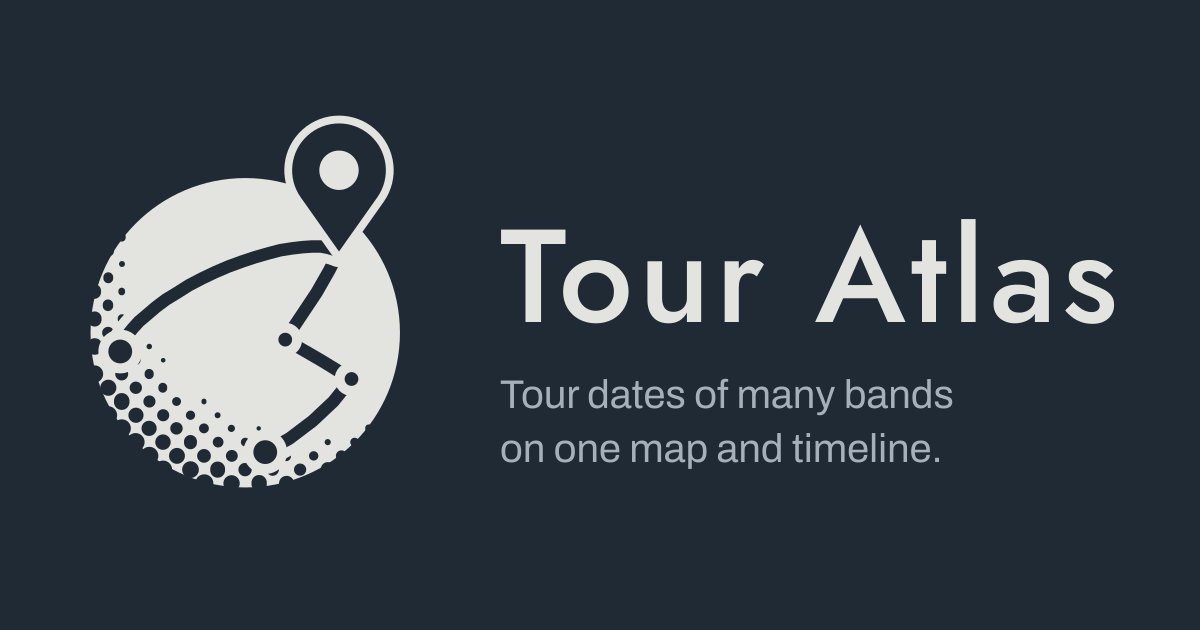
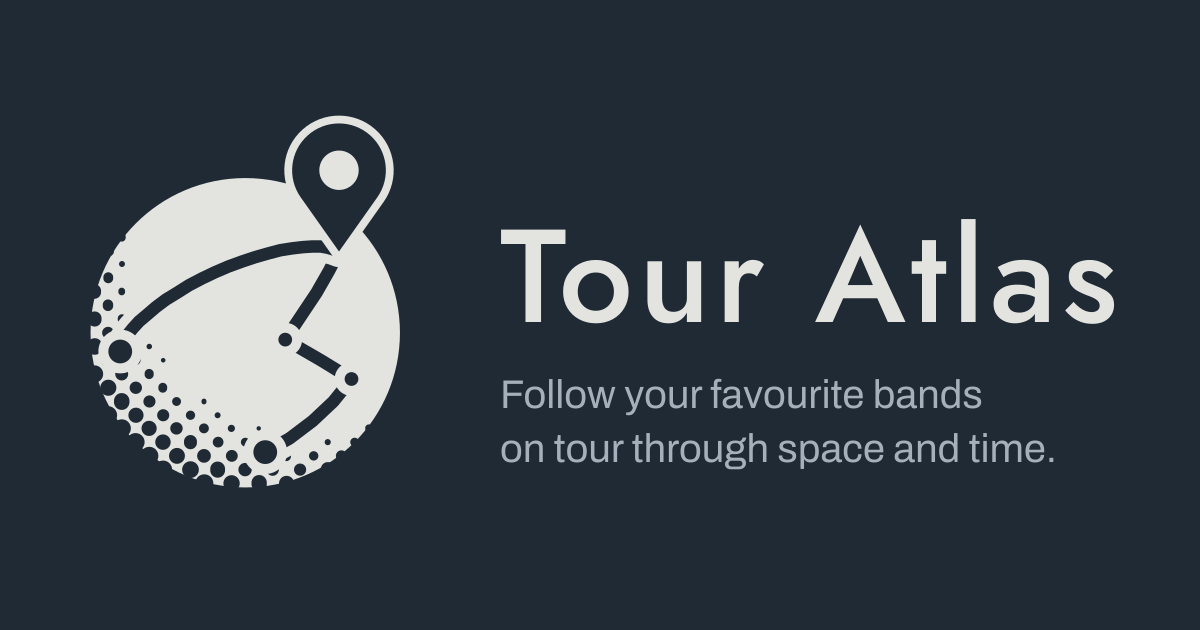
Rewrite the README around what the app does, with a new tagline
"Follow your favourite bands on tour through space and time" replaces the
old line in the README, the page description, the social card text and
the card image. The README now lists features, privacy and the static
nature of the site in short points; build, configuration, deployment,
the technical privacy details and the code layout move to
docs/DEVELOPMENT.md.

Changed region(s): [[0.4008, 0.6032, 0.8325, 0.6635], [0.4625, 0.6937, 0.8942, 0.754]]

diff --git a/index.html b/index.html
@@ -5,12 +5,12 @@
     <meta name="viewport" content="width=device-width, initial-scale=1" />
     <meta name="referrer" content="no-referrer" />
     <meta name="color-scheme" content="light dark" />
-    <meta name="description" content="Tour dates of many bands on one map and timeline." />
+    <meta name="description" content="Follow your favourite bands on tour through space and time: tour dates on one world map and timeline." />
     <title>Tour Atlas</title>
     <!-- social-card
       og:site_name = Tour Atlas
       og:title = Tour Atlas
-      og:description = Tour dates of {bands} bands, {shows} shows in all, on one world map with a zoomable timeline.
+      og:description = Follow your favourite bands on tour through space and time: {bands} bands, {shows} shows on one world map and timeline.
       og:image:alt = The Tour Atlas globe with a tour route and a map pin, next to the words Tour Atlas.
     -->
   </head>

diff --git a/tools/og-card.ts b/tools/og-card.ts
@@ -19,7 +19,7 @@ const PNG_PATH = 'src/brand/og-card.png';
 /** Stage lights, the default style: slate ink as the card, the mark's paper for the globe and the name. */
 const COLOURS = { card: '#1f2a35', paper: '#e3e4df', tagline: '#a6b0ba' } as const;
 const WORDMARK = { text: 'Tour Atlas', font: '@fontsource/jost/files/jost-latin-500-normal.woff', size: 132, letterSpacingEm: 0.04 } as const;
-const TAGLINE = { lines: ['Tour dates of many bands', 'on one map and timeline.'], font: '@fontsource/archivo/files/archivo-latin-400-normal.woff', size: 40, lineHeight: 54 } as const;
+const TAGLINE = { lines: ['Follow your favourite bands', 'on tour through space and time.'], font: '@fontsource/archivo/files/archivo-latin-400-normal.woff', size: 40, lineHeight: 54 } as const;
 const MARK_BOX = { x: 64, y: 114, size: 400 } as const;
 const TEXT_X = 500;
 const WORDMARK_BASELINE = 322;

diff --git a/tests/tools/build.test.ts b/tests/tools/build.test.ts
@@ -130,7 +130,7 @@ describe('injectSocialCard', () => {
   it('works with the real index.html, and check-dist accepts the result with the real card image', () => {
     const indexHtml = readFileSync('index.html', 'utf8');
     const html = injectSocialCard(indexHtml, siteUrl, counts);
-    expect(html).toMatch(/<meta property="og:description" content="Tour dates of 12 bands, 3,456 shows[^"]*" \/>/);
+    expect(html).toMatch(/<meta property="og:description" content="Follow your favourite bands[^"]*: 12 bands, 3,456 shows[^"]*" \/>/);
     const card = readFileSync('src/brand/og-card.png');
     expect(pngDimensions(card)).toEqual({ width: 1200, height: 630 });
     expect(socialCardProblems(html, card, true)).toEqual([]);

diff --git a/README.md b/README.md
@@ -1,132 +1,40 @@
 # Tour Atlas
 
-Concert tour dates of many bands on one world map, with a zoomable timeline aligned underneath.
-A static site: one `index.html` with every script, style, coastline and tour date inlined, plus three
-self-hosted font files next to it. No backend, no network requests to third parties, no cookies.
+Follow your favourite bands on tour through space and time.
 
-- Equal Earth map with automatic fitting (antimeridian-aware), zoom and pan, great-circle routes, merged and
-  clustered pins, greyed past shows, hollow cancelled shows; canvas rendering above 2,000 shows
-- Timeline with one lane per band, x-axis zoom, adaptive ticks, a today marker and virtualised lanes
-- Hover links map and timeline; clicking a band, place, pin or date lists its shows in the sidebar; the map can follow the timeline window
-- Search across bands, cities, venues, tours and festivals; band list with filter, sort, solo, show/hide all
-- Checking band files: pick or drop band files to validate them, see the diff against the published data and
-  download the normalized file, or download all bands as one file. Nothing leaves the browser.
-- Four styles (Stage lights, Bold contrast, Soft print, Road atlas), each light and dark following the system,
-  switchable in the settings; keyboard navigation with visible focus
-- A band's view draws its tour route on a calendar clock, or at an even pace per leg (switch in the map and timeline options),
-  with a playhead on the timeline (skipped when the system asks for reduced motion)
-- English, German, French, Spanish, Swedish, Finnish, Latin and Esperanto, picked from the browser or in the settings, with local date formats, a 12/24-hour choice and distances in kilometres, miles or Swedish mil
-- The logo returns to the default view; browser Back restores the view before it
-- Sharing: the share button in the masthead gives a link to the current view (bands, genres, dates, selection,
-  map region, globe and style) to copy or hand to the system share sheet; the link leaves out language,
-  time format and distances, so whoever opens it sees their own
-- Hover tooltips, time presets (upcoming, next 3 months, past, all), collapsed empty lanes, band-colour rings on
-  shared pins, and genre filters from the fixed tag list in `data/tags.json`
-- Band logos as one-colour silhouettes in the band list, tooltips and show lists, stored in `data/logos/`
+Every show of the bands you follow on one world map, with a timeline right underneath: see where they play,
+when, and what's coming up near you.
 
-Tour data lives in [`data/bands/`](data/bands/), one JSON file per band, and is changed through pull requests.
+## Features
+
+- **Map and timeline:** every show as a pin on a flat map or a globe, one timeline lane per band; hovering one highlights the other
+- **Filters that combine:** bands, genres, a time range and an area work together, in whatever order you pick them
+- **Around a place:** shows near you, around any point on the map (menu, right-click or long press) or around a city or venue
+- **Follow a tour:** a band's route animates leg by leg, with a playhead on the timeline
+- **Search:** bands, cities, venues, tours and festivals
+- **Share:** a link to exactly what you see; social media shows a preview card
+- **Mobile:** a phone layout with a collapsible sidebar; pinch to zoom, long press to pick a point
+- **Keyboard and screen readers:** skip link, keyboard cursors on the map and timeline that announce each show, live announcements for results and counts, visible focus
+- **Your way:** four styles in light and dark (all meet WCAG AA contrast), eight languages, local date formats, km or miles, less animation on request
+
+## Privacy in mind
+
+- No account, no cookies, no tracking, no analytics, nothing stored in your browser.
+- "Near me" uses your location only in the open tab; it never leaves your device and never goes into a link.
+- Shared links carry the view, not you: your language and format settings stay out of them.
+- Band files you check are read in your browser and never uploaded.
+
+## Static by design
+
+Tour Atlas is a snapshot, not a live feed. The tour dates come from each band's own pages, are reviewed, and
+reach the site when it is rebuilt; nothing updates on its own while you look at it. Every show links to its
+source, and to tickets where the band lists them.
+
+## Add or update a band
+
+Tour data lives in [`data/bands/`](data/bands/), one file per band, and changes through pull requests.
 See [CONTRIBUTING.md](CONTRIBUTING.md) and [docs/DATA_FORMAT.md](docs/DATA_FORMAT.md).
-
-## Develop
-
-Requires Node 22.18 or newer; `.nvmrc` pins the major version CI uses (`nvm use`). The CLI tools are TypeScript
-run directly by Node.
-
-```sh
-npm ci
-npm run dev          # http://localhost:5173
-npm test
-npm run check        # everything CI runs
-```
-
-## Environment variables
-
-Nothing is needed to develop, test or build. The variables below are optional, except `NOMINATIM_CONTACT`
-for geocoding.
-
-| Variable | Used by | Purpose |
-| --- | --- | --- |
-| `NOMINATIM_CONTACT` | `npm run geocode` | **Required for geocoding.** Email address or project URL sent in the User-Agent, as the Nominatim usage policy demands. |
-| `TOUR_ATLAS_BANDS_DIR` | `vite build` | Build from another directory of band files (the size-budget build uses this). Default `data/bands`. |
-| `TOUR_ATLAS_OUT_DIR` | `vite build` | Write the build somewhere else. Default `dist`. |
-| `TOUR_ATLAS_SITE_URL` | `vite build` | The published address, absolute `https:` and ending in `/` (for example `https://example.org/tour-atlas/`). When set, the build adds the OpenGraph/Twitter card tags and puts `og-card.png` next to `index.html`; anything else set fails the build. Unset (local builds, CI, the budget build) means no card. The deploy workflow sets it from GitHub Pages. |
-| `GITHUB_STEP_SUMMARY` | `validate`, `review` with `--format github` | Set by GitHub Actions; the tools append their Markdown summary to it. |
-
-For local runs, keep them in `.env.local`, which is git-ignored; `npm run geocode` loads it:
-
-```sh
-cp .env.example .env.local   # then put your contact address in it
-npm run geocode
-```
-
-Where to set `NOMINATIM_CONTACT` in GitHub Actions or on a future upload backend is described in
-[CONTRIBUTING.md](CONTRIBUTING.md#geocoding-contact).
-
-## Build
-
-```sh
-npm run build
-```
-
-Writes `dist/index.html` and the `.woff2` fonts next to it, then checks the output: everything else inlined,
-a Content-Security-Policy that blocks all network requests except the page's own fonts, no storage APIs,
-and the size budget. The fonts are separate so browsers cache them across data updates.
-
-With `TOUR_ATLAS_SITE_URL` set, the build also writes one social card for the whole site: OpenGraph and
-Twitter tags (texts in the `<!-- social-card -->` block in `index.html`, band and show counts filled in at
-build time) and `og-card.png`. Link previews never see the hash, so every shared link shows the same card.
-The image is `src/brand/og-card.png`, rendered with `src/brand/og-card.svg` by `npm run og-card` (sharp, run
-by hand after changing the mark or the card's text; commit both files). Browsers never request it, so it is
-outside the size budget.
-
-To look at the build, serve it locally: `npm run preview` (http://localhost:4173). Opening
-`dist/index.html` from disk (`file://`) also works as long as the font files stay next to it; a browser
-that blocks local fonts falls back to system fonts and nothing else changes.
-
-`npm run build:budget` builds the same app with a synthetic 50 bands / 5,000 shows dataset and fails above
-800 kB transferred (gzipped HTML plus every font file of the heaviest style; browsers download only the
-active style's fonts, and the extended Latin files only for letters like ĉ or Č). It is currently about 774 kB.
-
-## Deploy
-
-`.github/workflows/deploy.yml` validates, builds and publishes `dist/` to GitHub Pages on every push to `main`.
-It reads the site address from `actions/configure-pages`, builds with it as `TOUR_ATLAS_SITE_URL` and checks
-that the social card is there (`check-dist --require-social-card`).
-After the repository is on GitHub, enable it once: **Settings → Pages → Build and deployment → Source:
-GitHub Actions**.
-
-`.github/workflows/ci.yml` runs on every push and pull request: data validation with inline annotations,
-`normalize --check`, a data review summary for pull requests, typecheck, tests, build, a build with a test
-`TOUR_ATLAS_SITE_URL` that checks the social card, and the size budget.
-Dependabot keeps npm packages and the SHA-pinned GitHub Actions up to date.
-
-## Privacy
-
-- No cookies, no localStorage, sessionStorage or IndexedDB, no analytics, no third-party fonts or scripts;
-  the fonts and band logos are served from the same place as the page. Logos are downloaded once by
-  `npm run logos`; the page never contacts the original image hosts.
-- View state (hidden bands, time window, selection) lives in the URL hash only, so a view can be shared
-  as a link. The hash is never sent to a server. Shared links leave out the language, time format and
-  distance settings; the "Near me" position is never put in the URL at all.
-- Previewed files are read in the browser and kept in memory until the tab closes.
-- The Content-Security-Policy sets `connect-src 'none'`, so the page cannot make requests even by mistake.
-  Ticket and source links open in a new tab without a referrer.
-- GitHub Pages, as the host, logs visitor IP addresses; that is outside this app. Because the app is a
-  single file, it can be hosted anywhere else, or opened from disk.
-
-## Layout
-
-| Path | What |
-| --- | --- |
-| `data/bands/` | published band files |
-| `schema/tour.schema.json` | JSON Schema, also usable as an LLM structured-output schema |
-| `src/data/` | validator, ids, normalize, diff, lint, palette: shared by app, tools and build |
-| `src/store/` | `DataStore` interface and `StaticStore` for the bundled data |
-| `src/view/` | map, timeline, band list, detail, preview panel, search |
-| `tools/` | `validate`, `normalize`, `geocode`, `review`, build checks and Vite plugins |
-| `data/tags.json` | the fixed tag list (genre, label, other) |
-| `samples/` | fictional sample bands used by the tests, one file with invalid rows, one LLM-style draft |
-| `.claude/skills/` | Claude Code skills for the tasks that need judgement |
+Building, configuring and deploying the app: [docs/DEVELOPMENT.md](docs/DEVELOPMENT.md).
 
 ## Credits
 

diff --git a/docs/DEVELOPMENT.md b/docs/DEVELOPMENT.md
@@ -1,0 +1,109 @@
+# Development
+
+How Tour Atlas is built, configured and deployed. For adding or changing band data, see
+[CONTRIBUTING.md](../CONTRIBUTING.md) and [DATA_FORMAT.md](DATA_FORMAT.md).
+
+The app is a static site: one `index.html` with every script, style, coastline and tour date inlined, plus
+self-hosted `.woff2` fonts and the band logo `.webp` files next to it. No backend, and no network requests at
+runtime.
+
+## Getting started
+
+Requires Node 22.18 or newer; `.nvmrc` pins the major version CI uses (`nvm use`). The CLI tools are TypeScript
+run directly by Node.
+
+```sh
+npm ci
+npm run dev          # http://localhost:5173
+npm test
+npm run check        # everything CI runs
+```
+
+## Environment variables
+
+Nothing is needed to develop, test or build. The variables below are optional, except `NOMINATIM_CONTACT`
+for geocoding.
+
+| Variable | Used by | Purpose |
+| --- | --- | --- |
+| `NOMINATIM_CONTACT` | `npm run geocode` | **Required for geocoding.** Email address or project URL sent in the User-Agent, as the Nominatim usage policy demands. |
+| `TOUR_ATLAS_BANDS_DIR` | `vite build` | Build from another directory of band files (the size-budget build uses this). Default `data/bands`. |
+| `TOUR_ATLAS_OUT_DIR` | `vite build` | Write the build somewhere else. Default `dist`. |
+| `TOUR_ATLAS_SITE_URL` | `vite build` | The published address, absolute `https:` and ending in `/` (for example `https://example.org/tour-atlas/`). When set, the build adds the OpenGraph/Twitter card tags and puts `og-card.png` next to `index.html`; anything else set fails the build. Unset (local builds, CI, the budget build) means no card. The deploy workflow sets it from GitHub Pages. |
+| `GITHUB_STEP_SUMMARY` | `validate`, `review` with `--format github` | Set by GitHub Actions; the tools append their Markdown summary to it. |
+
+For local runs, keep them in `.env.local`, which is git-ignored; `npm run geocode` loads it:
+
+```sh
+cp .env.example .env.local   # then put your contact address in it
+npm run geocode
+```
+
+Where to set `NOMINATIM_CONTACT` in GitHub Actions or on a future upload backend is described in
+[CONTRIBUTING.md](../CONTRIBUTING.md#geocoding-contact).
+
+## Build
+
+```sh
+npm run build
+```
+
+Writes `dist/index.html` and the `.woff2` fonts next to it, then checks the output: everything else inlined,
+a Content-Security-Policy that blocks all network requests except the page's own fonts, no storage APIs,
+and the size budget. The fonts are separate so browsers cache them across data updates.
+
+With `TOUR_ATLAS_SITE_URL` set, the build also writes one social card for the whole site: OpenGraph and
+Twitter tags (texts in the `<!-- social-card -->` block in `index.html`, band and show counts filled in at
+build time) and `og-card.png`. Link previews never see the hash, so every shared link shows the same card.
+The image is `src/brand/og-card.png`, rendered with `src/brand/og-card.svg` by `npm run og-card` (sharp, run
+by hand after changing the mark or the card's text; commit both files). Browsers never request it, so it is
+outside the size budget.
+
+To look at the build, serve it locally: `npm run preview` (http://localhost:4173). Opening
+`dist/index.html` from disk (`file://`) also works as long as the font files stay next to it; a browser
+that blocks local fonts falls back to system fonts and nothing else changes.
+
+`npm run build:budget` builds the same app with a synthetic 50 bands / 5,000 shows dataset and fails above
+800 kB transferred (gzipped HTML plus every font file of the heaviest style; browsers download only the
+active style's fonts, and the extended Latin files only for letters like ĉ or Č). It is currently about 774 kB.
+
+## Deploy
+
+`.github/workflows/deploy.yml` validates, builds and publishes `dist/` to GitHub Pages on every push to `main`.
+It reads the site address from `actions/configure-pages`, builds with it as `TOUR_ATLAS_SITE_URL` and checks
+that the social card is there (`check-dist --require-social-card`).
+After the repository is on GitHub, enable it once: **Settings → Pages → Build and deployment → Source:
+GitHub Actions**.
+
+`.github/workflows/ci.yml` runs on every push and pull request: data validation with inline annotations,
+`normalize --check`, a data review summary for pull requests, typecheck, tests, build, a build with a test
+`TOUR_ATLAS_SITE_URL` that checks the social card, and the size budget.
+Dependabot keeps npm packages and the SHA-pinned GitHub Actions up to date.
+
+## Privacy, technically
+
+- No cookies, no localStorage, sessionStorage or IndexedDB, no analytics, no third-party fonts or scripts;
+  the fonts and band logos are served from the same place as the page. Logos are downloaded once by
+  `npm run logos`; the page never contacts the original image hosts.
+- View state (hidden bands, time window, selection) lives in the URL hash only, so a view can be shared
+  as a link. The hash is never sent to a server. Shared links leave out the language, time format and
+  distance settings; the "Near me" position is never put in the URL at all.
+- Previewed files are read in the browser and kept in memory until the tab closes.
+- The Content-Security-Policy sets `connect-src 'none'`, so the page cannot make requests even by mistake.
+  Ticket and source links open in a new tab without a referrer.
+- GitHub Pages, as the host, logs visitor IP addresses; that is outside this app. Because the app is a
+  single file, it can be hosted anywhere else, or opened from disk.
+
+## Layout
+
+| Path | What |
+| --- | --- |
+| `data/bands/` | published band files |
+| `schema/tour.schema.json` | JSON Schema, also usable as an LLM structured-output schema |
+| `src/data/` | validator, ids, normalize, diff, lint, palette: shared by app, tools and build |
+| `src/store/` | `DataStore` interface and `StaticStore` for the bundled data |
+| `src/view/` | map, timeline, band list, detail, preview panel, search |
+| `tools/` | `validate`, `normalize`, `geocode`, `review`, build checks and Vite plugins |
+| `data/tags.json` | the fixed tag list (genre, label, other) |
+| `samples/` | fictional sample bands used by the tests, one file with invalid rows, one LLM-style draft |
+| `.claude/skills/` | Claude Code skills for the tasks that need judgement |
